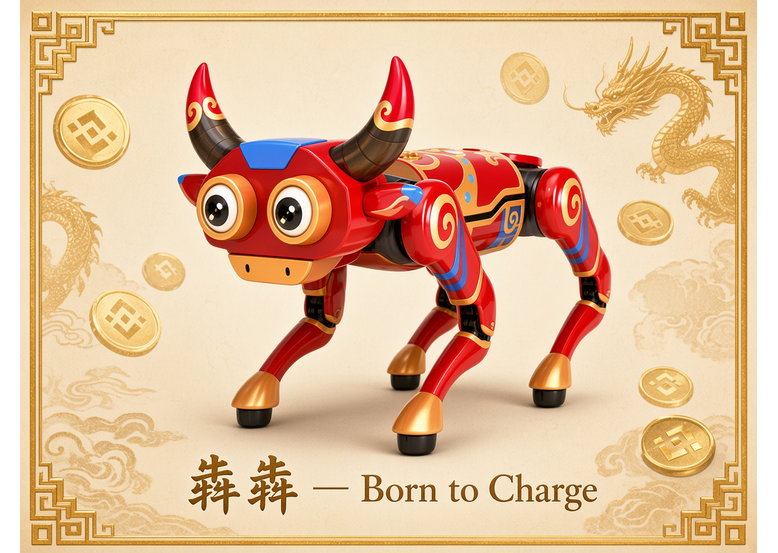
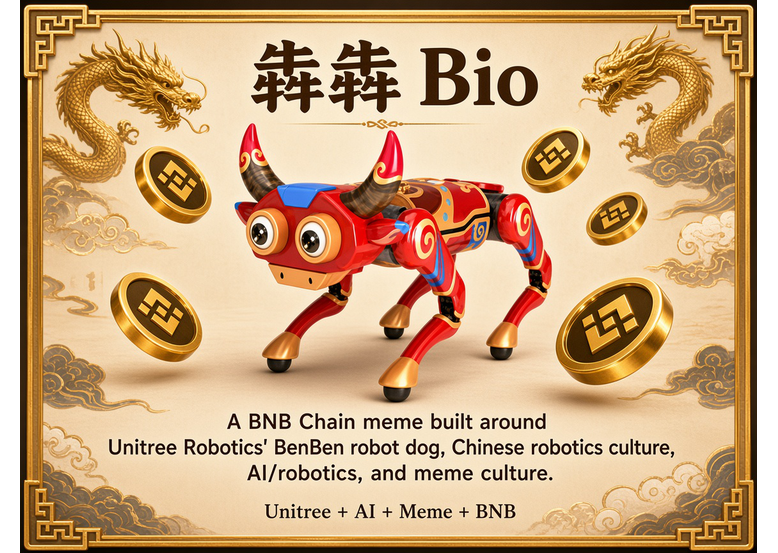
update

diff --git a/index.html b/index.html
@@ -3,13 +3,13 @@
 <head>
 	<meta http-equiv="Content-Type" content="text/html; charset=UTF-8"/>
     <meta name="viewport" content="width=device-width, initial-scale=1.0">
-    <title>犇犇 — Born to Charge. Built on BNB</title>
-    <meta name="description" content="犇犇 (ticker: 犇犇) — Three bulls. One unstoppable spirit. Charging through the BNB Chain, straight to the moon.">
+    <title>犇犇 — Unitree BenBen × AI Robotics × Meme on BNB</title>
+    <meta name="description" content="犇犇 (ticker: 犇犇) is currently the cleanest existing example of the combined narrative. Built around Unitree Robotics' BenBen robot dog, Chinese robotics culture, AI/robotics, meme culture, and BNB Chain. The character 犇 contains three 牛 (ox/cow) — Chinese cultural identity and a crypto bull interpretation.">
     <meta name="robots" content="index, follow" />
 	<link rel="canonical" href="https://benbenonbsc.lol" />
     <link rel="icon" href="image/logo.png" type="image/png"/>
-    <meta property="og:title" content="犇犇 — Born to Charge. Built on BNB" />
-    <meta property="og:description" content="Three bulls. One unstoppable spirit. Charging through the BNB Chain." />
+    <meta property="og:title" content="犇犇 — Unitree BenBen × AI Robotics × Meme on BNB" />
+    <meta property="og:description" content="A BNB Chain meme combining Unitree Robotics' BenBen robot dog + AI robotics + meme narratives. 犇 = three 牛 — Chinese culture + crypto bull." />
     <meta property="og:image" content="image/banner.png" />
     <meta name="twitter:card" content="summary_large_image" />
     <meta name="twitter:site" content="@benbenbnb" />
@@ -27,12 +27,12 @@
             </div>
         </div>
         <div class="womens"></div>
-        <img class="bgg" src="image/index01.jpg" alt="犇犇 — Born to Charge. Built on BNB">
+        <img class="bgg" src="image/index01.jpg" alt="犇犇 — Unitree BenBen × AI × Meme on BNB Chain">
     </div>
     <div class="book_btn">
         <div class="book">
             <div class="book_con">
-                <img src="image/wen-1.png" alt="About 犇犇">
+                <img src="image/wen-1.png" alt="犇犇 bio — Unitree BenBen robot dog, AI robotics, meme culture, BNB Chain">
             </div>
             <div class="book_change">
                 <img class="prev" src="image/next.png" alt="prev">
@@ -51,10 +51,16 @@
         </div>
     </div>
     <div class="buy_dora big_wen">
-        <img src="image/index05.jpg" alt="The Spirit of 犇犇">
+        <img src="image/index05.jpg" alt="犇犇 narrative">
         <div class="wen_con">
             <div class="wen_img">
                 <img src="image/big_wen01.png" alt="犇犇 lore">
+            </div>
+            <div class="bio-panel">
+                <h2>犇犇 Bio</h2>
+                <p>This is currently the cleanest existing example of the combined narrative.</p>
+                <p>Its narrative is built around Unitree Robotics' BenBen robot dog, Chinese robotics culture, AI/robotics, meme culture, and BNB Chain. WEEX explicitly describes it as a BNB Chain meme combining the Unitree robot dog + AI robotics + meme narratives.</p>
+                <p>The character 犇 is also unusually meme-friendly: it contains three 牛 (“ox/cow”) characters, giving it both a Chinese cultural identity and a crypto “bull” interpretation.</p>
             </div>
         </div>
     </div>
@@ -73,10 +79,10 @@
     <div class="buy_dora">
         <img src="image/index07.jpg" alt="犇犇 Charge">
         <div class="video_con">
-            <img class="feature_shot" src="image/banner.png" alt="犇犇 — Born to Charge. Built on BNB">
+            <img class="feature_shot" src="image/banner.png" alt="犇犇 — Unitree BenBen × AI robotics × meme on BNB">
         </div>
     </div>
-    <div class="foot">Copyright © 2026 犇犇 · Built on BNB · <a href="https://x.com/benbenbnb" target="_blank" rel="noopener">@benbenbnb</a></div>
+    <div class="foot">Copyright © 2026 犇犇 · Unitree BenBen × AI × Meme on BNB · <a href="https://x.com/benbenbnb" target="_blank" rel="noopener">@benbenbnb</a></div>
     <script>
         const images = [
             'image/wen-1.png'
@@ -414,9 +420,9 @@
             if (!tbody) return;
             if (tbody.children.length === 0) {
                 tbody.innerHTML = `
-                    <tr><td class="date">—</td><td class="add">Follow @benbenbnb</td><td class="num">犇犇</td></tr>
-                    <tr><td class="date">—</td><td class="add">Built on BNB</td><td class="num">🔥</td></tr>
-                    <tr><td class="date">—</td><td class="add">Born to Charge</td><td class="num">🐂</td></tr>
+                    <tr><td class="date">—</td><td class="add">Unitree BenBen × AI</td><td class="num">犇犇</td></tr>
+                    <tr><td class="date">—</td><td class="add">Meme on BNB Chain</td><td class="num">🤖</td></tr>
+                    <tr><td class="date">—</td><td class="add">犇 = three 牛 (bull)</td><td class="num">🐂</td></tr>
                 `;
             }
         }

diff --git a/style/style_v-4.css b/style/style_v-4.css
@@ -245,6 +245,56 @@ body {
 	transform-style: preserve-3d;
 }
 
+.bio-panel {
+	position: absolute;
+	left: 8%;
+	bottom: 6%;
+	width: 84%;
+	padding: 1.6vw 2vw;
+	background: rgba(18, 6, 6, 0.82);
+	border: 0.18vw solid #f0b90b;
+	border-radius: 1vw;
+	box-shadow: 0 0 1.2vw rgba(240, 185, 11, 0.25);
+	color: #ffe9a8;
+	z-index: 4;
+}
+
+.bio-panel h2 {
+	margin: 0 0 0.8vw;
+	color: #f0b90b;
+	font-size: 2.2vw;
+	font-weight: 800;
+	letter-spacing: 0.02em;
+}
+
+.bio-panel p {
+	margin: 0 0 0.7vw;
+	font-size: 1.15vw;
+	line-height: 1.55;
+	font-weight: 600;
+	color: #fff3d0;
+}
+
+.bio-panel p:last-child {
+	margin-bottom: 0;
+}
+
+@media (max-width: 768px) {
+	.bio-panel {
+		left: 5%;
+		width: 90%;
+		bottom: 4%;
+		padding: 2.4vw 3vw;
+	}
+	.bio-panel h2 {
+		font-size: 3.6vw;
+	}
+	.bio-panel p {
+		font-size: 2.4vw;
+		line-height: 1.45;
+	}
+}
+
 /* big_wen 翻页动画效果 */
 .wen_img img.flip-out {
 	transform: rotateY(-90deg);
